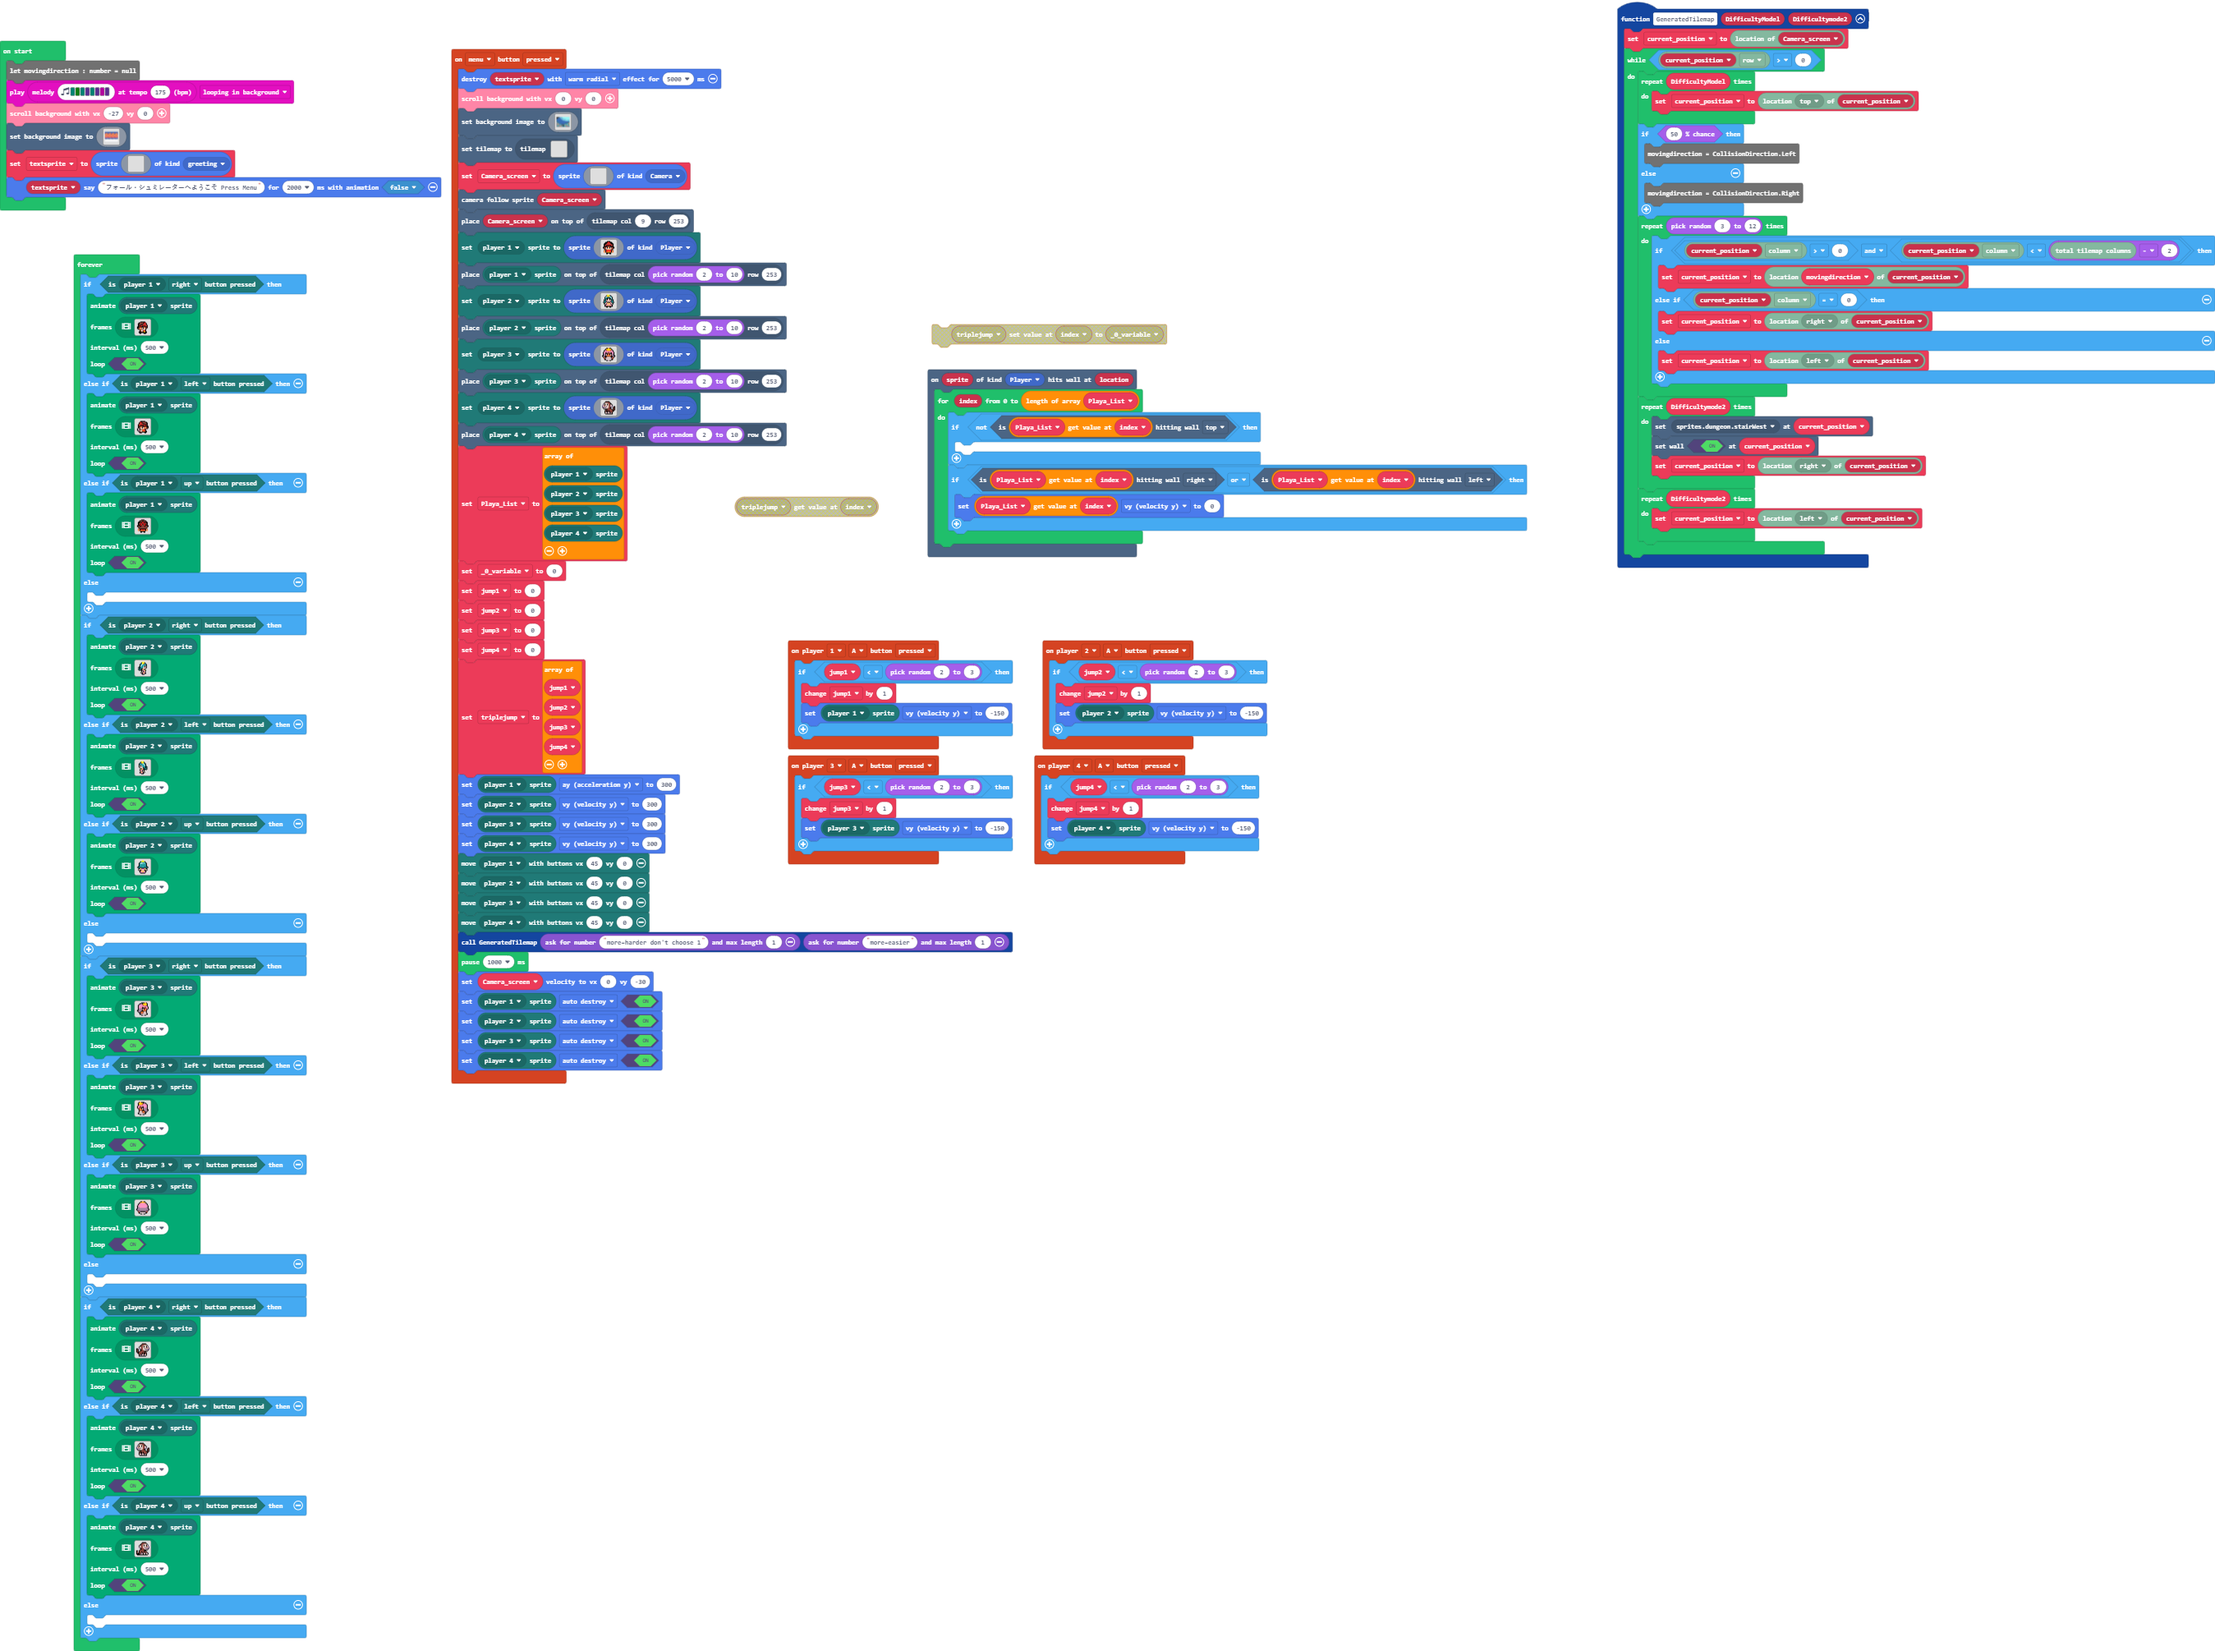
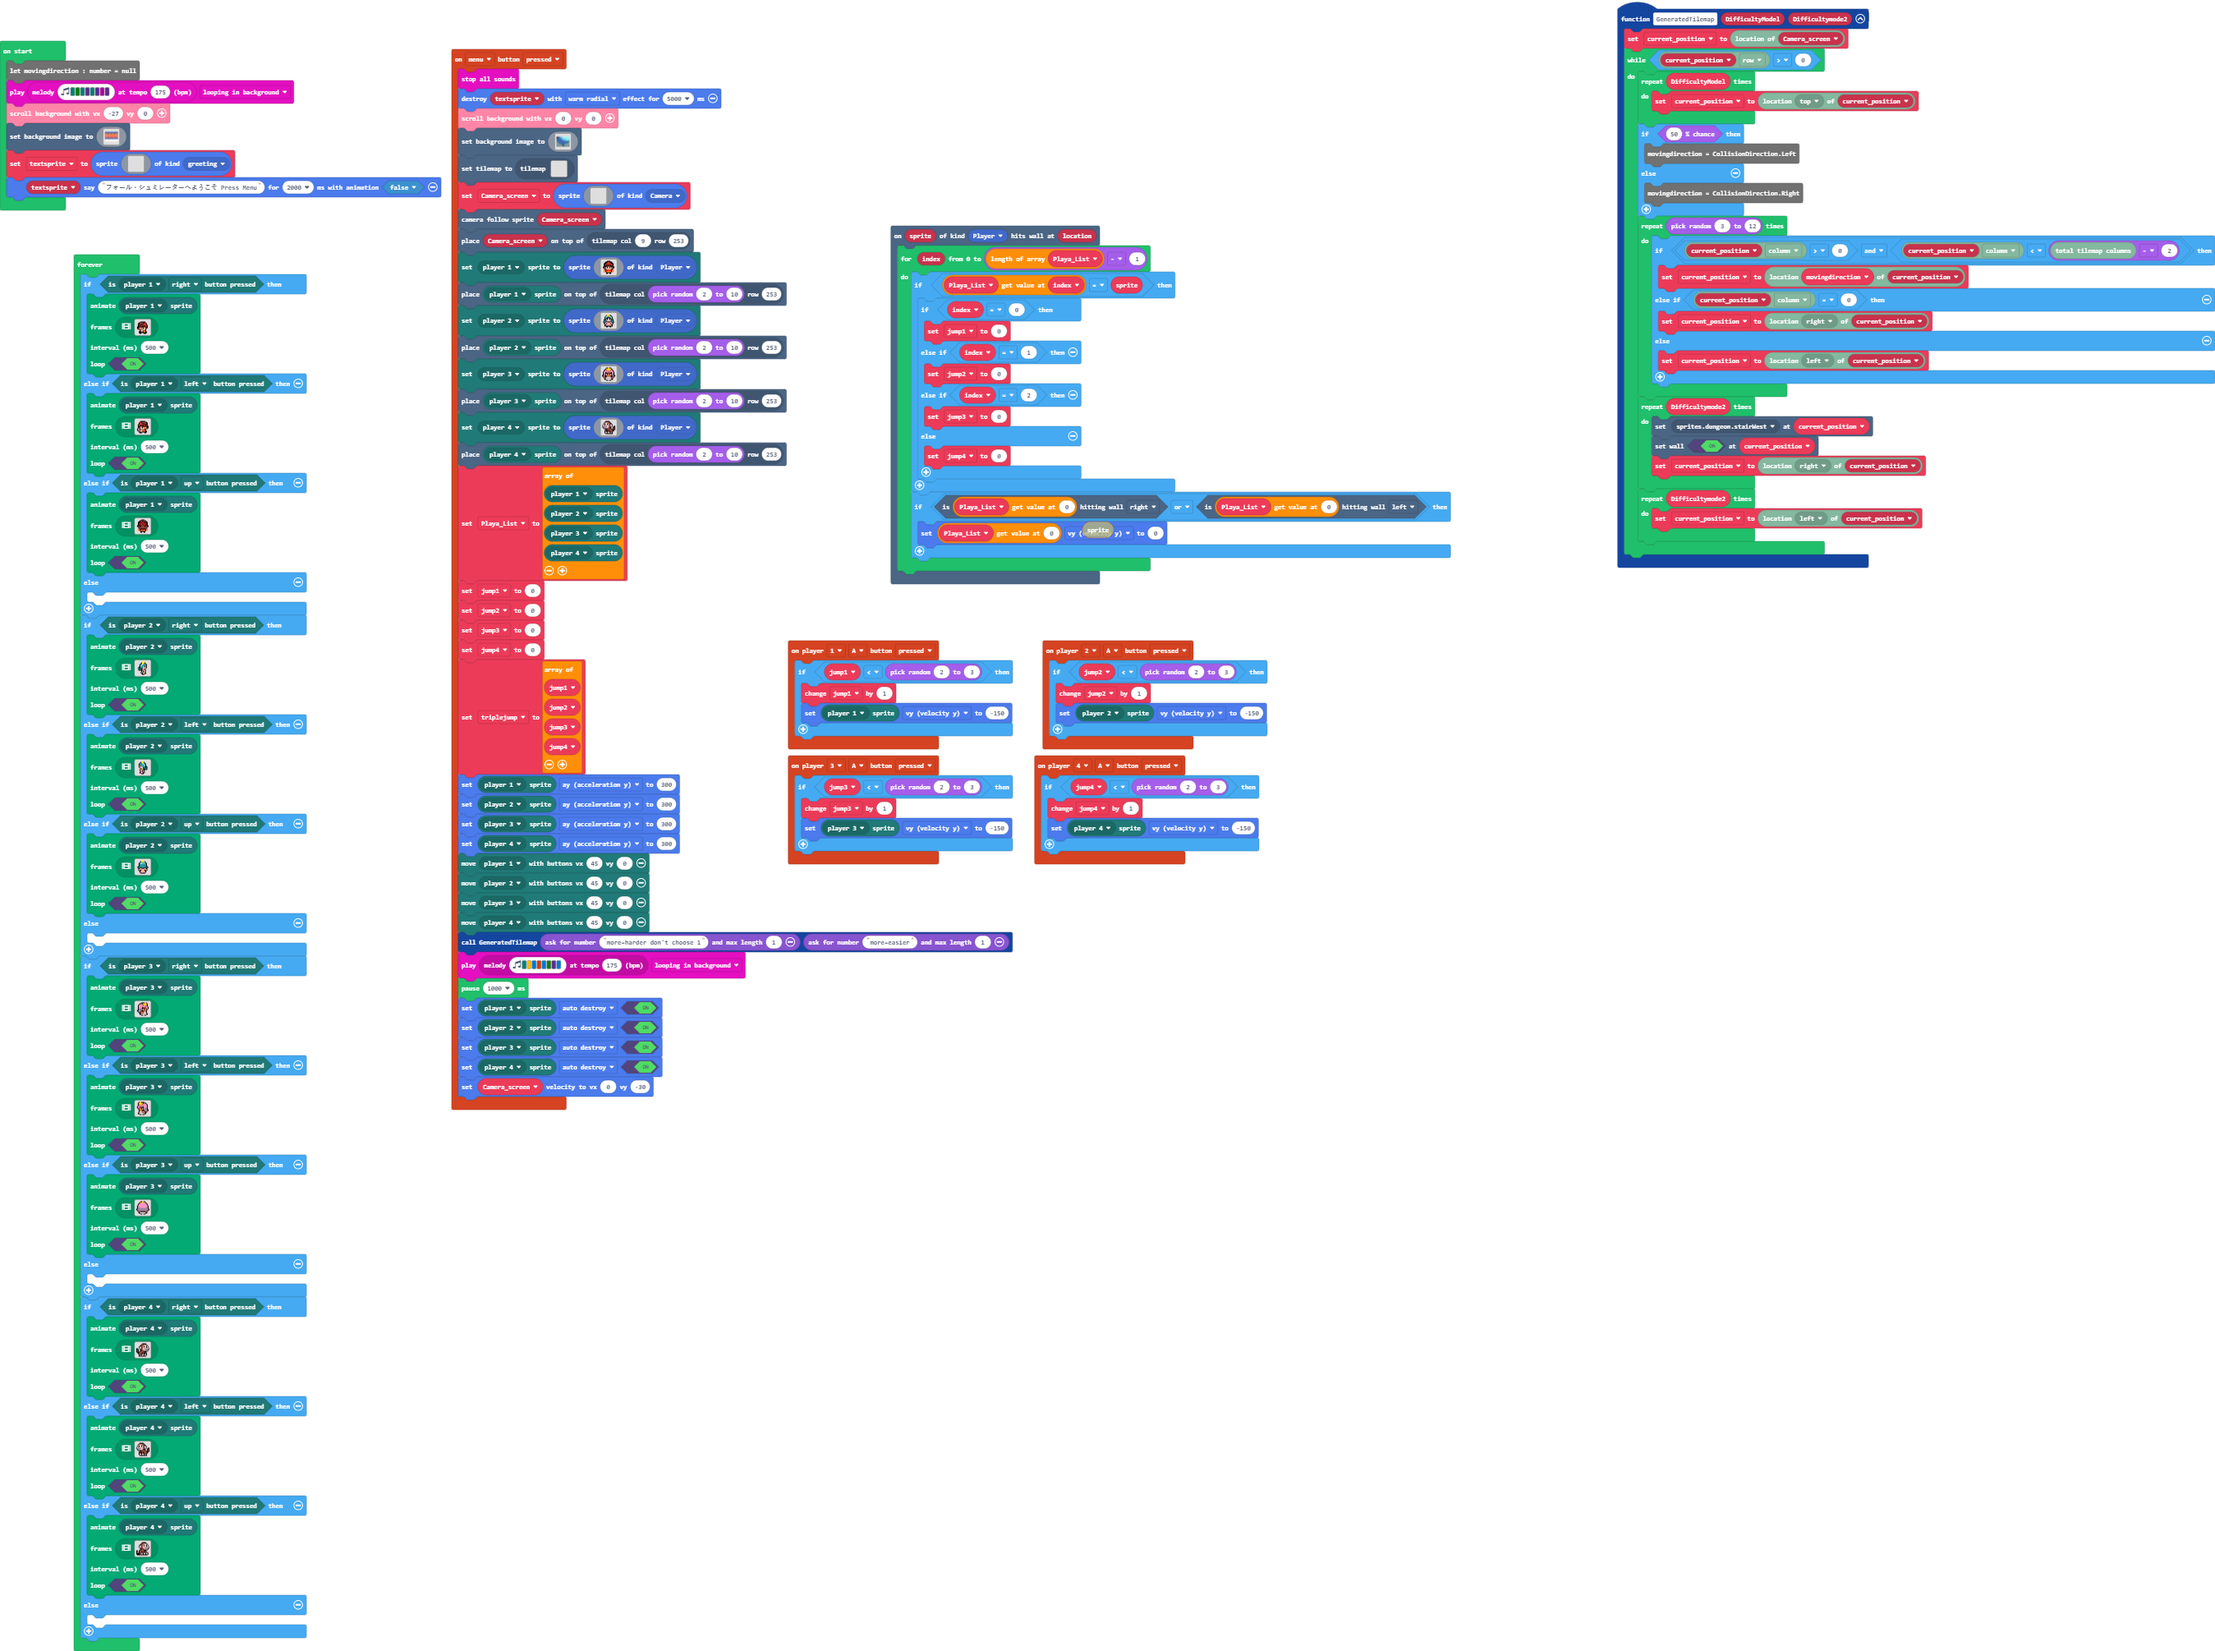
Update pxt.json, main.blocks, main.ts, tilemap.g.jres, tilemap.g.ts

Changed region(s): [[0.1869, 0.0308, 0.6852, 0.3701], [0.1869, 0.5552, 0.3426, 0.6786], [0.2803, 0.4627, 0.3115, 0.5244]]

diff --git a/main.ts b/main.ts
@@ -3,12 +3,20 @@ namespace SpriteKind {
     export const greeting = SpriteKind.create()
 }
 scene.onHitWall(SpriteKind.Player, function (sprite, location) {
-    for (let index = 0; index <= Playa_List.length; index++) {
-        if (!(Playa_List[index].isHittingTile(CollisionDirection.Top))) {
-        	
+    for (let index = 0; index <= Playa_List.length - 1; index++) {
+        if (Playa_List[index] == sprite) {
+            if (index == 0) {
+                jump1 = 0
+            } else if (index == 1) {
+                jump2 = 0
+            } else if (index == 2) {
+                jump3 = 0
+            } else {
+                jump4 = 0
+            }
         }
-        if (Playa_List[index].isHittingTile(CollisionDirection.Right) || Playa_List[index].isHittingTile(CollisionDirection.Left)) {
-            Playa_List[index].vy = 0
+        if (Playa_List[0].isHittingTile(CollisionDirection.Right) || Playa_List[0].isHittingTile(CollisionDirection.Left)) {
+            Playa_List[0].vy = 0
         }
     }
 })
@@ -25,6 +33,7 @@ controller.player4.onButtonEvent(ControllerButton.A, ControllerButtonEvent.Press
     }
 })
 controller.menu.onEvent(ControllerButtonEvent.Pressed, function () {
+    music.stopAllSounds()
     sprites.destroy(textsprite, effects.warmRadial, 5000)
     scroller.scrollBackgroundWithSpeed(0, 0)
     scene.setBackgroundImage(img`
@@ -252,7 +261,6 @@ controller.menu.onEvent(ControllerButtonEvent.Pressed, function () {
     mp.getPlayerSprite(mp.playerSelector(mp.PlayerNumber.Three)),
     mp.getPlayerSprite(mp.playerSelector(mp.PlayerNumber.Four))
     ]
-    _0_variable = 0
     jump1 = 0
     jump2 = 0
     jump3 = 0
@@ -264,20 +272,21 @@ controller.menu.onEvent(ControllerButtonEvent.Pressed, function () {
     jump4
     ]
     mp.getPlayerSprite(mp.playerSelector(mp.PlayerNumber.One)).ay = 300
-    mp.getPlayerSprite(mp.playerSelector(mp.PlayerNumber.Two)).vy = 300
-    mp.getPlayerSprite(mp.playerSelector(mp.PlayerNumber.Three)).vy = 300
-    mp.getPlayerSprite(mp.playerSelector(mp.PlayerNumber.Four)).vy = 300
+    mp.getPlayerSprite(mp.playerSelector(mp.PlayerNumber.Two)).ay = 300
+    mp.getPlayerSprite(mp.playerSelector(mp.PlayerNumber.Three)).ay = 300
+    mp.getPlayerSprite(mp.playerSelector(mp.PlayerNumber.Four)).ay = 300
     mp.moveWithButtons(mp.playerSelector(mp.PlayerNumber.One), 45, 0)
     mp.moveWithButtons(mp.playerSelector(mp.PlayerNumber.Two), 45, 0)
     mp.moveWithButtons(mp.playerSelector(mp.PlayerNumber.Three), 45, 0)
     mp.moveWithButtons(mp.playerSelector(mp.PlayerNumber.Four), 45, 0)
     GeneratedTilemap(game.askForNumber("more=harder don't choose 1", 1), game.askForNumber("more=easier", 1))
+    music.play(music.stringPlayable("F A E B E G D E ", 175), music.PlaybackMode.LoopingInBackground)
     pause(1000)
-    Camera_screen.setVelocity(0, -30)
     mp.getPlayerSprite(mp.playerSelector(mp.PlayerNumber.One)).setFlag(SpriteFlag.AutoDestroy, true)
     mp.getPlayerSprite(mp.playerSelector(mp.PlayerNumber.Two)).setFlag(SpriteFlag.AutoDestroy, true)
     mp.getPlayerSprite(mp.playerSelector(mp.PlayerNumber.Three)).setFlag(SpriteFlag.AutoDestroy, true)
     mp.getPlayerSprite(mp.playerSelector(mp.PlayerNumber.Four)).setFlag(SpriteFlag.AutoDestroy, true)
+    Camera_screen.setVelocity(0, -30)
 })
 controller.player1.onButtonEvent(ControllerButton.A, ControllerButtonEvent.Pressed, function () {
     if (jump1 < randint(2, 3)) {
@@ -323,12 +332,11 @@ function GeneratedTilemap (DifficultyModel: number, Difficultymode2: number) {
 }
 let current_position: tiles.Location = null
 let triplejump: number[] = []
-let jump3 = 0
-let jump1 = 0
-let _0_variable = 0
 let Camera_screen: Sprite = null
 let jump4 = 0
+let jump3 = 0
 let jump2 = 0
+let jump1 = 0
 let Playa_List: Sprite[] = []
 let textsprite: Sprite = null
 let movingdirection : number = null

diff --git a/tilemap.g.ts b/tilemap.g.ts
@@ -358,6 +358,25 @@ namespace myTiles {
 ...........
 22222222222
 `, [myTiles.transparency16,sprites.skillmap.islandTile6,sprites.skillmap.islandTile7,sprites.skillmap.islandTile8], TileScale.Sixteen);
+            case "level7":
+            case "level7":return tiles.createTilemap(hex`1000100000000000000000000000000000000000000000000000000000000000000000000000000000000000000000000000000000000000000000000000000000000000000000000000000000000000000000000000000000000000000000000000000000000000000000000000000000000000000000000000000000000000000000000000000000000000000000000000000000000000000000000000000000000000000000000000000000000000000000000000000000000000000000000000000000000000000000000000000000000000000000000000000000000000000000000000000000000000000000000000000000000000000000000000000000000000`, img`
+. . . . . . . . . . . . . . . . 
+. . . . . . . . . . . . . . . . 
+. . . . . . . . . . . . . . . . 
+. . . . . . . . . . . . . . . . 
+. . . . . . . . . . . . . . . . 
+. . . . . . . . . . . . . . . . 
+. . . . . . . . . . . . . . . . 
+. . . . . . . . . . . . . . . . 
+. . . . . . . . . . . . . . . . 
+. . . . . . . . . . . . . . . . 
+. . . . . . . . . . . . . . . . 
+. . . . . . . . . . . . . . . . 
+. . . . . . . . . . . . . . . . 
+. . . . . . . . . . . . . . . . 
+. . . . . . . . . . . . . . . . 
+. . . . . . . . . . . . . . . . 
+`, [myTiles.transparency16], TileScale.Sixteen);
         }
         return null;
     })
